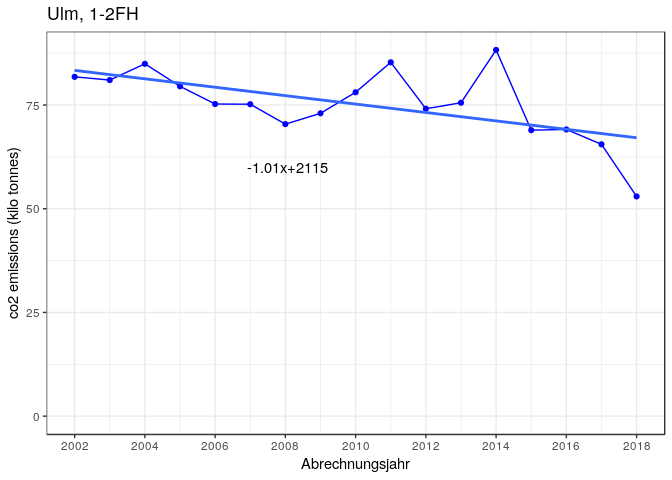
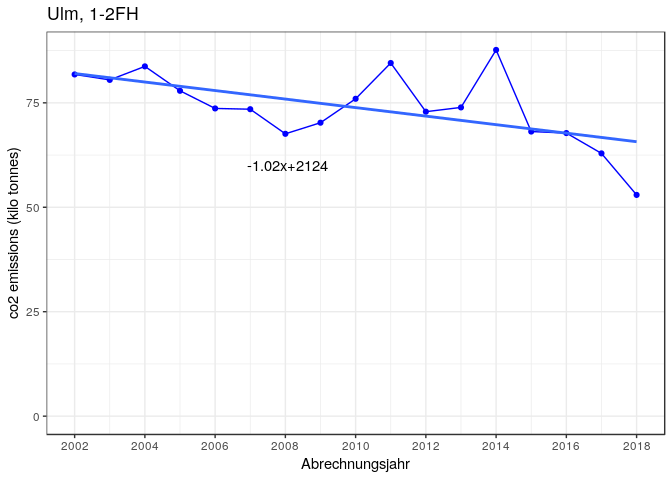
after adding co2 coefficients for Ulm

diff --git a/co2emissions_ulm_sfh_v2.md b/co2emissions_ulm_sfh_v2.md
@@ -555,29 +555,29 @@ I'm using the preliminary coefficients from <https://www.dropbox.com/s/j63ednj6t
 I've saved the above as `MunichCO2Koeffizienten.txt`.
 
 ``` r
-co2_coeff <- read.table("MunichCO2Koeffizienten.txt",header=TRUE)
+co2_coeff <- read.table("UlmCO2Koeffizienten.txt",header=TRUE)
 names(co2_coeff) <- c("abrechnungsjahr","erdgas","waerme","fluessiggas","heizoel","holzpellets","strom")
 co2_coeff
 ```
 
     ##    abrechnungsjahr erdgas waerme fluessiggas heizoel holzpellets strom
-    ## 1             2002    203    156         230     266           6   654
-    ## 2             2003    203    156         230     266           6   635
-    ## 3             2004    203    156         230     266           6   615
-    ## 4             2005    203    156         230     266           6   611
-    ## 5             2006    203    156         230     266           6   604
-    ## 6             2007    203    156         230     266           6   623
-    ## 7             2008    203    156         230     266           6   584
-    ## 8             2009    203    156         230     266           6   569
-    ## 9             2010    203    156         234     266           6   559
-    ## 10            2011    203    156         234     266           6   569
-    ## 11            2012    203    156         234     266           6   574
-    ## 12            2013    202    156         231     267           6   573
-    ## 13            2014    201    156         229     268           6   559
-    ## 14            2015    201    156         230     268           6   528
-    ## 15            2016    201    156         230     268           6   516
-    ## 16            2017    201    156         230     268           6   489
-    ## 17            2018    201    156         230     268           6   467
+    ## 1             2002    203     76         230     266           6   654
+    ## 2             2003    203     76         230     266           6   635
+    ## 3             2004    203     76         230     266           6   615
+    ## 4             2005    203     76         230     266           6   611
+    ## 5             2006    203     76         230     266           6   604
+    ## 6             2007    203     76         230     266           6   623
+    ## 7             2008    203     76         230     266           6   584
+    ## 8             2009    203     76         230     266           6   569
+    ## 9             2010    203     76         234     266           6   559
+    ## 10            2011    203     76         234     266           6   569
+    ## 11            2012    203     76         234     266           6   574
+    ## 12            2013    202     76         231     267           6   573
+    ## 13            2014    201     76         229     268           6   559
+    ## 14            2015    201     76         230     268           6   528
+    ## 15            2016    201     76         230     268           6   516
+    ## 16            2017    201     76         230     268           6   489
+    ## 17            2018    201     76         230     268           6   467
 
 The units for the above coefficients are *g*/*k**W**h*.
 
@@ -589,23 +589,23 @@ co2_coeff_subset
 ```
 
     ##    abrechnungsjahr erdgas waerme fluessiggas heizoel holzpellets strom
-    ## 1             2002    203    156         230     266           6   654
-    ## 2             2003    203    156         230     266           6   635
-    ## 3             2004    203    156         230     266           6   615
-    ## 4             2005    203    156         230     266           6   611
-    ## 5             2006    203    156         230     266           6   604
-    ## 6             2007    203    156         230     266           6   623
-    ## 7             2008    203    156         230     266           6   584
-    ## 8             2009    203    156         230     266           6   569
-    ## 9             2010    203    156         234     266           6   559
-    ## 10            2011    203    156         234     266           6   569
-    ## 11            2012    203    156         234     266           6   574
-    ## 12            2013    202    156         231     267           6   573
-    ## 13            2014    201    156         229     268           6   559
-    ## 14            2015    201    156         230     268           6   528
-    ## 15            2016    201    156         230     268           6   516
-    ## 16            2017    201    156         230     268           6   489
-    ## 17            2018    201    156         230     268           6   467
+    ## 1             2002    203     76         230     266           6   654
+    ## 2             2003    203     76         230     266           6   635
+    ## 3             2004    203     76         230     266           6   615
+    ## 4             2005    203     76         230     266           6   611
+    ## 5             2006    203     76         230     266           6   604
+    ## 6             2007    203     76         230     266           6   623
+    ## 7             2008    203     76         230     266           6   584
+    ## 8             2009    203     76         230     266           6   569
+    ## 9             2010    203     76         234     266           6   559
+    ## 10            2011    203     76         234     266           6   569
+    ## 11            2012    203     76         234     266           6   574
+    ## 12            2013    202     76         231     267           6   573
+    ## 13            2014    201     76         229     268           6   559
+    ## 14            2015    201     76         230     268           6   528
+    ## 15            2016    201     76         230     268           6   516
+    ## 16            2017    201     76         230     268           6   489
+    ## 17            2018    201     76         230     268           6   467
 
 ``` r
 names(energy_shares_absolute)
@@ -681,21 +681,21 @@ co2_emissions
 
     ##         erdgas     waerme fluessiggas     heizoel holzpellets       strom
     ## 1  32809981413          0           0 48984209632           0           0
-    ## 2  38059874696 1017065542           0 41939947095           0           0
-    ## 3  32118718588 2361464555           0 50458775578           0           0
-    ## 4  25621906156 3162759756   127500028 50592935719           0           0
-    ## 5  28925571090 3090536997   881820715 42345918929           0           0
-    ## 6  29053914915 3353754852   179201475 42607840540           0           0
-    ## 7  30695128925 5480654423   911954685 33307477727           0           0
-    ## 8  28224300129 5376156801   505059345 38898422131           0           0
-    ## 9  21291993629 4105413278  1649563761 42207367328    20138123  8800577965
-    ## 10 21429894364 1479843188  2378310479 44939859320    24028778 15042104821
-    ## 11 21533565615 2388934845  2222772790 35690468798    68223590 12201225719
-    ## 12 26307659972 3202971895   536036666 41567946656           0  3932194851
-    ## 13 27598047890 1201964644           0 50438345955           0  9044783946
-    ## 14 21151138671 1590406730    78531215 44164008155    31752346  1927038911
-    ## 15 29159823714 2620996142   118784293 37198708395    12079571           0
-    ## 16 24639463826 5121372674  1470290976 33034962930    43279401  1215551908
+    ## 2  38059874696  495493469           0 41939947095           0           0
+    ## 3  32118718588 1150457091           0 50458775578           0           0
+    ## 4  25621906156 1540831676   127500028 50592935719           0           0
+    ## 5  28925571090 1505646229   881820715 42345918929           0           0
+    ## 6  29053914915 1633880569   179201475 42607840540           0           0
+    ## 7  30695128925 2670062411   911954685 33307477727           0           0
+    ## 8  28224300129 2619153313   505059345 38898422131           0           0
+    ## 9  21291993629 2000073136  1649563761 42207367328    20138123  8800577965
+    ## 10 21429894364  720949245  2378310479 44939859320    24028778 15042104821
+    ## 11 21533565615 1163840053  2222772790 35690468798    68223590 12201225719
+    ## 12 26307659972 1560422205   536036666 41567946656           0  3932194851
+    ## 13 27598047890  585572519           0 50438345955           0  9044783946
+    ## 14 21151138671  774813535    78531215 44164008155    31752346  1927038911
+    ## 15 29159823714 1276895556   118784293 37198708395    12079571           0
+    ## 16 24639463826 2495027713  1470290976 33034962930    43279401  1215551908
     ## 17 52959110783          0           0           0           0           0
 
 The above answer is in grams. Divide by 1e9 to get the answer in kilo tonnes.
@@ -707,41 +707,41 @@ co2_emissions_in_kilo_tons$total <- rowSums(co2_emissions_in_kilo_tons[,names(co
 co2_emissions_in_kilo_tons
 ```
 
-    ##      erdgas   waerme fluessiggas  heizoel holzpellets     strom
-    ## 1  32.80998 0.000000  0.00000000 48.98421  0.00000000  0.000000
-    ## 2  38.05987 1.017066  0.00000000 41.93995  0.00000000  0.000000
-    ## 3  32.11872 2.361465  0.00000000 50.45878  0.00000000  0.000000
-    ## 4  25.62191 3.162760  0.12750003 50.59294  0.00000000  0.000000
-    ## 5  28.92557 3.090537  0.88182072 42.34592  0.00000000  0.000000
-    ## 6  29.05391 3.353755  0.17920148 42.60784  0.00000000  0.000000
-    ## 7  30.69513 5.480654  0.91195469 33.30748  0.00000000  0.000000
-    ## 8  28.22430 5.376157  0.50505935 38.89842  0.00000000  0.000000
-    ## 9  21.29199 4.105413  1.64956376 42.20737  0.02013812  8.800578
-    ## 10 21.42989 1.479843  2.37831048 44.93986  0.02402878 15.042105
-    ## 11 21.53357 2.388935  2.22277279 35.69047  0.06822359 12.201226
-    ## 12 26.30766 3.202972  0.53603667 41.56795  0.00000000  3.932195
-    ## 13 27.59805 1.201965  0.00000000 50.43835  0.00000000  9.044784
-    ## 14 21.15114 1.590407  0.07853122 44.16401  0.03175235  1.927039
-    ## 15 29.15982 2.620996  0.11878429 37.19871  0.01207957  0.000000
-    ## 16 24.63946 5.121373  1.47029098 33.03496  0.04327940  1.215552
-    ## 17 52.95911 0.000000  0.00000000  0.00000  0.00000000  0.000000
+    ##      erdgas    waerme fluessiggas  heizoel holzpellets     strom
+    ## 1  32.80998 0.0000000  0.00000000 48.98421  0.00000000  0.000000
+    ## 2  38.05987 0.4954935  0.00000000 41.93995  0.00000000  0.000000
+    ## 3  32.11872 1.1504571  0.00000000 50.45878  0.00000000  0.000000
+    ## 4  25.62191 1.5408317  0.12750003 50.59294  0.00000000  0.000000
+    ## 5  28.92557 1.5056462  0.88182072 42.34592  0.00000000  0.000000
+    ## 6  29.05391 1.6338806  0.17920148 42.60784  0.00000000  0.000000
+    ## 7  30.69513 2.6700624  0.91195469 33.30748  0.00000000  0.000000
+    ## 8  28.22430 2.6191533  0.50505935 38.89842  0.00000000  0.000000
+    ## 9  21.29199 2.0000731  1.64956376 42.20737  0.02013812  8.800578
+    ## 10 21.42989 0.7209492  2.37831048 44.93986  0.02402878 15.042105
+    ## 11 21.53357 1.1638401  2.22277279 35.69047  0.06822359 12.201226
+    ## 12 26.30766 1.5604222  0.53603667 41.56795  0.00000000  3.932195
+    ## 13 27.59805 0.5855725  0.00000000 50.43835  0.00000000  9.044784
+    ## 14 21.15114 0.7748135  0.07853122 44.16401  0.03175235  1.927039
+    ## 15 29.15982 1.2768956  0.11878429 37.19871  0.01207957  0.000000
+    ## 16 24.63946 2.4950277  1.47029098 33.03496  0.04327940  1.215552
+    ## 17 52.95911 0.0000000  0.00000000  0.00000  0.00000000  0.000000
     ##    abrechnungsjahr    total
     ## 1             2002 81.79419
-    ## 2             2003 81.01689
-    ## 3             2004 84.93896
-    ## 4             2005 79.50510
-    ## 5             2006 75.24385
-    ## 6             2007 75.19471
-    ## 7             2008 70.39522
-    ## 8             2009 73.00394
-    ## 9             2010 78.07505
-    ## 10            2011 85.29404
-    ## 11            2012 74.10519
-    ## 12            2013 75.54681
-    ## 13            2014 88.28314
-    ## 14            2015 68.94288
-    ## 15            2016 69.11039
-    ## 16            2017 65.52492
+    ## 2             2003 80.49532
+    ## 3             2004 83.72795
+    ## 4             2005 77.88317
+    ## 5             2006 73.65896
+    ## 6             2007 73.47484
+    ## 7             2008 67.58462
+    ## 8             2009 70.24693
+    ## 9             2010 75.96971
+    ## 10            2011 84.53515
+    ## 11            2012 72.88010
+    ## 12            2013 73.90426
+    ## 13            2014 87.66675
+    ## 14            2015 68.12728
+    ## 15            2016 67.76629
+    ## 16            2017 62.89858
     ## 17            2018 52.95911
 
 ### 3g. Total CO<sub>2</sub> emissions
@@ -778,21 +778,21 @@ co2cumsums
 
     ##      erdgas   waerme fluessiggas  heizoel holzpellets    strom
     ## 1  32.80998 32.80998    32.80998 81.79419    81.79419 81.79419
-    ## 2  38.05987 39.07694    39.07694 81.01689    81.01689 81.01689
-    ## 3  32.11872 34.48018    34.48018 84.93896    84.93896 84.93896
-    ## 4  25.62191 28.78467    28.91217 79.50510    79.50510 79.50510
-    ## 5  28.92557 32.01611    32.89793 75.24385    75.24385 75.24385
-    ## 6  29.05391 32.40767    32.58687 75.19471    75.19471 75.19471
-    ## 7  30.69513 36.17578    37.08774 70.39522    70.39522 70.39522
-    ## 8  28.22430 33.60046    34.10552 73.00394    73.00394 73.00394
-    ## 9  21.29199 25.39741    27.04697 69.25434    69.27448 78.07505
-    ## 10 21.42989 22.90974    25.28805 70.22791    70.25194 85.29404
-    ## 11 21.53357 23.92250    26.14527 61.83574    61.90397 74.10519
-    ## 12 26.30766 29.51063    30.04667 71.61462    71.61462 75.54681
-    ## 13 27.59805 28.80001    28.80001 79.23836    79.23836 88.28314
-    ## 14 21.15114 22.74155    22.82008 66.98408    67.01584 68.94288
-    ## 15 29.15982 31.78082    31.89960 69.09831    69.11039 69.11039
-    ## 16 24.63946 29.76084    31.23113 64.26609    64.30937 65.52492
+    ## 2  38.05987 38.55537    38.55537 80.49532    80.49532 80.49532
+    ## 3  32.11872 33.26918    33.26918 83.72795    83.72795 83.72795
+    ## 4  25.62191 27.16274    27.29024 77.88317    77.88317 77.88317
+    ## 5  28.92557 30.43122    31.31304 73.65896    73.65896 73.65896
+    ## 6  29.05391 30.68780    30.86700 73.47484    73.47484 73.47484
+    ## 7  30.69513 33.36519    34.27715 67.58462    67.58462 67.58462
+    ## 8  28.22430 30.84345    31.34851 70.24693    70.24693 70.24693
+    ## 9  21.29199 23.29207    24.94163 67.14900    67.16914 75.96971
+    ## 10 21.42989 22.15084    24.52915 69.46901    69.49304 84.53515
+    ## 11 21.53357 22.69741    24.92018 60.61065    60.67887 72.88010
+    ## 12 26.30766 27.86808    28.40412 69.97207    69.97207 73.90426
+    ## 13 27.59805 28.18362    28.18362 78.62197    78.62197 87.66675
+    ## 14 21.15114 21.92595    22.00448 66.16849    66.20024 68.12728
+    ## 15 29.15982 30.43672    30.55550 67.75421    67.76629 67.76629
+    ## 16 24.63946 27.13449    28.60478 61.63975    61.68302 62.89858
     ## 17 52.95911 52.95911    52.95911 52.95911    52.95911 52.95911
     ##    abrechnungsjahr
     ## 1             2002
@@ -864,21 +864,21 @@ co2anteile_cumsums
 
     ##       erdgas    waerme fluessiggas   heizoel holzpellets strom
     ## 1  0.4011285 0.4011285   0.4011285 1.0000000   1.0000000     1
-    ## 2  0.4697771 0.4823308   0.4823308 1.0000000   1.0000000     1
-    ## 3  0.3781388 0.4059407   0.4059407 1.0000000   1.0000000     1
-    ## 4  0.3222674 0.3620480   0.3636517 1.0000000   1.0000000     1
-    ## 5  0.3844244 0.4254980   0.4372175 1.0000000   1.0000000     1
-    ## 6  0.3863824 0.4309834   0.4333665 1.0000000   1.0000000     1
-    ## 7  0.4360400 0.5138955   0.5268503 1.0000000   1.0000000     1
-    ## 8  0.3866134 0.4602554   0.4671736 1.0000000   1.0000000     1
-    ## 9  0.2727119 0.3252948   0.3464227 0.8870226   0.8872805     1
-    ## 10 0.2512473 0.2685972   0.2964808 0.8233624   0.8236441     1
-    ## 11 0.2905811 0.3228181   0.3528130 0.8344320   0.8353526     1
-    ## 12 0.3482299 0.3906271   0.3977225 0.9479502   0.9479502     1
-    ## 13 0.3126084 0.3262232   0.3262232 0.8975480   0.8975480     1
-    ## 14 0.3067922 0.3298607   0.3309998 0.9715882   0.9720488     1
-    ## 15 0.4219311 0.4598559   0.4615746 0.9998252   1.0000000     1
-    ## 16 0.3760319 0.4541911   0.4766298 0.9807885   0.9814490     1
+    ## 2  0.4728210 0.4789765   0.4789765 1.0000000   1.0000000     1
+    ## 3  0.3836081 0.3973485   0.3973485 1.0000000   1.0000000     1
+    ## 4  0.3289787 0.3487626   0.3503997 1.0000000   1.0000000     1
+    ## 5  0.3926959 0.4131367   0.4251084 1.0000000   1.0000000     1
+    ## 6  0.3954267 0.4176640   0.4201030 1.0000000   1.0000000     1
+    ## 7  0.4541733 0.4936802   0.5071737 1.0000000   1.0000000     1
+    ## 8  0.4017869 0.4390719   0.4462616 1.0000000   1.0000000     1
+    ## 9  0.2802695 0.3065967   0.3283102 0.8838917   0.8841568     1
+    ## 10 0.2535028 0.2620312   0.2901652 0.8217767   0.8220609     1
+    ## 11 0.2954657 0.3114349   0.3419339 0.8316488   0.8325849     1
+    ## 12 0.3559695 0.3770836   0.3843367 0.9467934   0.9467934     1
+    ## 13 0.3148063 0.3214859   0.3214859 0.8968277   0.8968277     1
+    ## 14 0.3104650 0.3218381   0.3229908 0.9712481   0.9717141     1
+    ## 15 0.4302998 0.4491425   0.4508953 0.9998217   1.0000000     1
+    ## 16 0.3917332 0.4314007   0.4547763 0.9799863   0.9806744     1
     ## 17 1.0000000 1.0000000   1.0000000 1.0000000   1.0000000     1
     ##    abrechnungsjahr
     ## 1             2002
@@ -958,21 +958,21 @@ spez_co2_emission
 
     ##    abrechnungsjahr spez_co2
     ## 1             2002 44.73074
-    ## 2             2003 43.93405
-    ## 3             2004 45.55794
-    ## 4             2005 42.22571
-    ## 5             2006 39.57495
-    ## 6             2007 39.15196
-    ## 7             2008 36.53417
-    ## 8             2009 37.71416
-    ## 9             2010 38.44109
-    ## 10            2011 41.57274
-    ## 11            2012 35.91288
-    ## 12            2013 36.39930
-    ## 13            2014 42.02270
-    ## 14            2015 32.52919
-    ## 15            2016 32.29586
-    ## 16            2017 30.39026
+    ## 2             2003 43.65121
+    ## 3             2004 44.90841
+    ## 4             2005 41.36429
+    ## 5             2006 38.74136
+    ## 6             2007 38.25647
+    ## 7             2008 35.07551
+    ## 8             2009 36.28988
+    ## 9             2010 37.40451
+    ## 10            2011 41.20285
+    ## 11            2012 35.31918
+    ## 12            2013 35.60790
+    ## 13            2014 41.72930
+    ## 14            2015 32.14437
+    ## 15            2016 31.66775
+    ## 16            2017 29.17217
     ## 17            2018 24.19035
 
 ``` r
@@ -1012,21 +1012,21 @@ co2cumsums
 
     ##      erdgas   waerme fluessiggas  heizoel holzpellets    strom
     ## 1  32.80998 32.80998    32.80998 81.79419    81.79419 81.79419
-    ## 2  38.05987 39.07694    39.07694 81.01689    81.01689 81.01689
-    ## 3  32.11872 34.48018    34.48018 84.93896    84.93896 84.93896
-    ## 4  25.62191 28.78467    28.91217 79.50510    79.50510 79.50510
-    ## 5  28.92557 32.01611    32.89793 75.24385    75.24385 75.24385
-    ## 6  29.05391 32.40767    32.58687 75.19471    75.19471 75.19471
-    ## 7  30.69513 36.17578    37.08774 70.39522    70.39522 70.39522
-    ## 8  28.22430 33.60046    34.10552 73.00394    73.00394 73.00394
-    ## 9  21.29199 25.39741    27.04697 69.25434    69.27448 78.07505
-    ## 10 21.42989 22.90974    25.28805 70.22791    70.25194 85.29404
-    ## 11 21.53357 23.92250    26.14527 61.83574    61.90397 74.10519
-    ## 12 26.30766 29.51063    30.04667 71.61462    71.61462 75.54681
-    ## 13 27.59805 28.80001    28.80001 79.23836    79.23836 88.28314
-    ## 14 21.15114 22.74155    22.82008 66.98408    67.01584 68.94288
-    ## 15 29.15982 31.78082    31.89960 69.09831    69.11039 69.11039
-    ## 16 24.63946 29.76084    31.23113 64.26609    64.30937 65.52492
+    ## 2  38.05987 38.55537    38.55537 80.49532    80.49532 80.49532
+    ## 3  32.11872 33.26918    33.26918 83.72795    83.72795 83.72795
+    ## 4  25.62191 27.16274    27.29024 77.88317    77.88317 77.88317
+    ## 5  28.92557 30.43122    31.31304 73.65896    73.65896 73.65896
+    ## 6  29.05391 30.68780    30.86700 73.47484    73.47484 73.47484
+    ## 7  30.69513 33.36519    34.27715 67.58462    67.58462 67.58462
+    ## 8  28.22430 30.84345    31.34851 70.24693    70.24693 70.24693
+    ## 9  21.29199 23.29207    24.94163 67.14900    67.16914 75.96971
+    ## 10 21.42989 22.15084    24.52915 69.46901    69.49304 84.53515
+    ## 11 21.53357 22.69741    24.92018 60.61065    60.67887 72.88010
+    ## 12 26.30766 27.86808    28.40412 69.97207    69.97207 73.90426
+    ## 13 27.59805 28.18362    28.18362 78.62197    78.62197 87.66675
+    ## 14 21.15114 21.92595    22.00448 66.16849    66.20024 68.12728
+    ## 15 29.15982 30.43672    30.55550 67.75421    67.76629 67.76629
+    ## 16 24.63946 27.13449    28.60478 61.63975    61.68302 62.89858
     ## 17 52.95911 52.95911    52.95911 52.95911    52.95911 52.95911
     ##    abrechnungsjahr
     ## 1             2002
@@ -1053,21 +1053,21 @@ co2anteile_cumsums
 
     ##       erdgas    waerme fluessiggas   heizoel holzpellets strom
     ## 1  0.4011285 0.4011285   0.4011285 1.0000000   1.0000000     1
-    ## 2  0.4697771 0.4823308   0.4823308 1.0000000   1.0000000     1
-    ## 3  0.3781388 0.4059407   0.4059407 1.0000000   1.0000000     1
-    ## 4  0.3222674 0.3620480   0.3636517 1.0000000   1.0000000     1
-    ## 5  0.3844244 0.4254980   0.4372175 1.0000000   1.0000000     1
-    ## 6  0.3863824 0.4309834   0.4333665 1.0000000   1.0000000     1
-    ## 7  0.4360400 0.5138955   0.5268503 1.0000000   1.0000000     1
-    ## 8  0.3866134 0.4602554   0.4671736 1.0000000   1.0000000     1
-    ## 9  0.2727119 0.3252948   0.3464227 0.8870226   0.8872805     1
-    ## 10 0.2512473 0.2685972   0.2964808 0.8233624   0.8236441     1
-    ## 11 0.2905811 0.3228181   0.3528130 0.8344320   0.8353526     1
-    ## 12 0.3482299 0.3906271   0.3977225 0.9479502   0.9479502     1
-    ## 13 0.3126084 0.3262232   0.3262232 0.8975480   0.8975480     1
-    ## 14 0.3067922 0.3298607   0.3309998 0.9715882   0.9720488     1
-    ## 15 0.4219311 0.4598559   0.4615746 0.9998252   1.0000000     1
-    ## 16 0.3760319 0.4541911   0.4766298 0.9807885   0.9814490     1
+    ## 2  0.4728210 0.4789765   0.4789765 1.0000000   1.0000000     1
+    ## 3  0.3836081 0.3973485   0.3973485 1.0000000   1.0000000     1
+    ## 4  0.3289787 0.3487626   0.3503997 1.0000000   1.0000000     1
+    ## 5  0.3926959 0.4131367   0.4251084 1.0000000   1.0000000     1
+    ## 6  0.3954267 0.4176640   0.4201030 1.0000000   1.0000000     1
+    ## 7  0.4541733 0.4936802   0.5071737 1.0000000   1.0000000     1
+    ## 8  0.4017869 0.4390719   0.4462616 1.0000000   1.0000000     1
+    ## 9  0.2802695 0.3065967   0.3283102 0.8838917   0.8841568     1
+    ## 10 0.2535028 0.2620312   0.2901652 0.8217767   0.8220609     1
+    ## 11 0.2954657 0.3114349   0.3419339 0.8316488   0.8325849     1
+    ## 12 0.3559695 0.3770836   0.3843367 0.9467934   0.9467934     1
+    ## 13 0.3148063 0.3214859   0.3214859 0.8968277   0.8968277     1
+    ## 14 0.3104650 0.3218381   0.3229908 0.9712481   0.9717141     1
+    ## 15 0.4302998 0.4491425   0.4508953 0.9998217   1.0000000     1
+    ## 16 0.3917332 0.4314007   0.4547763 0.9799863   0.9806744     1
     ## 17 1.0000000 1.0000000   1.0000000 1.0000000   1.0000000     1
     ##    abrechnungsjahr
     ## 1             2002
